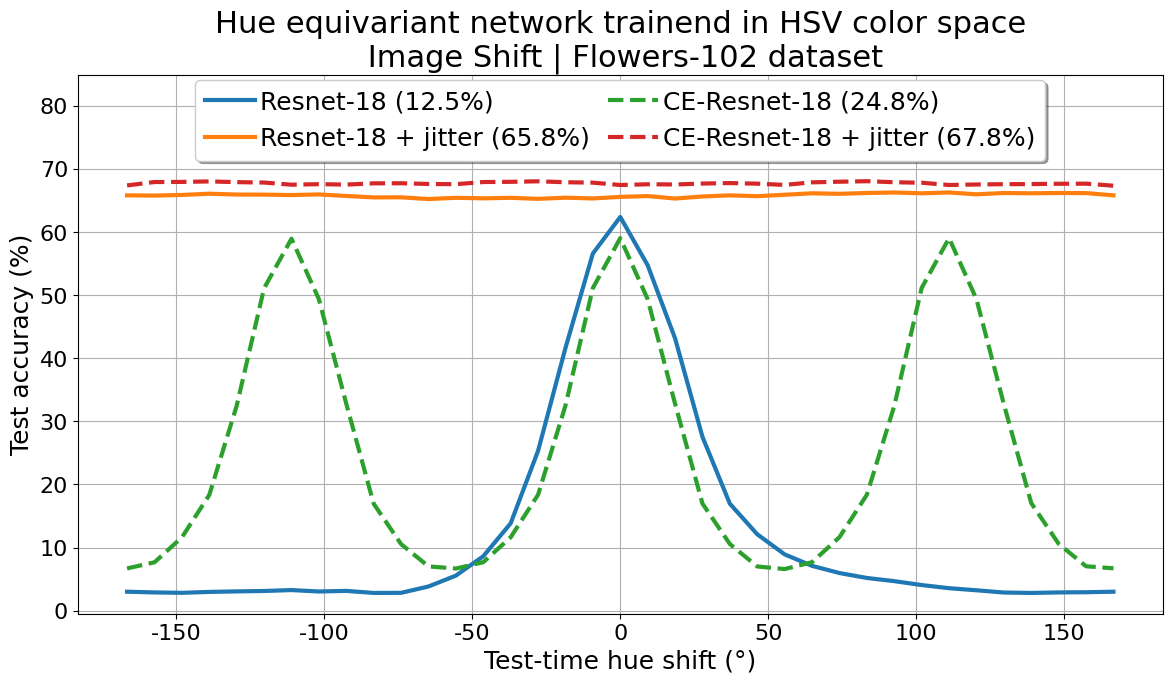
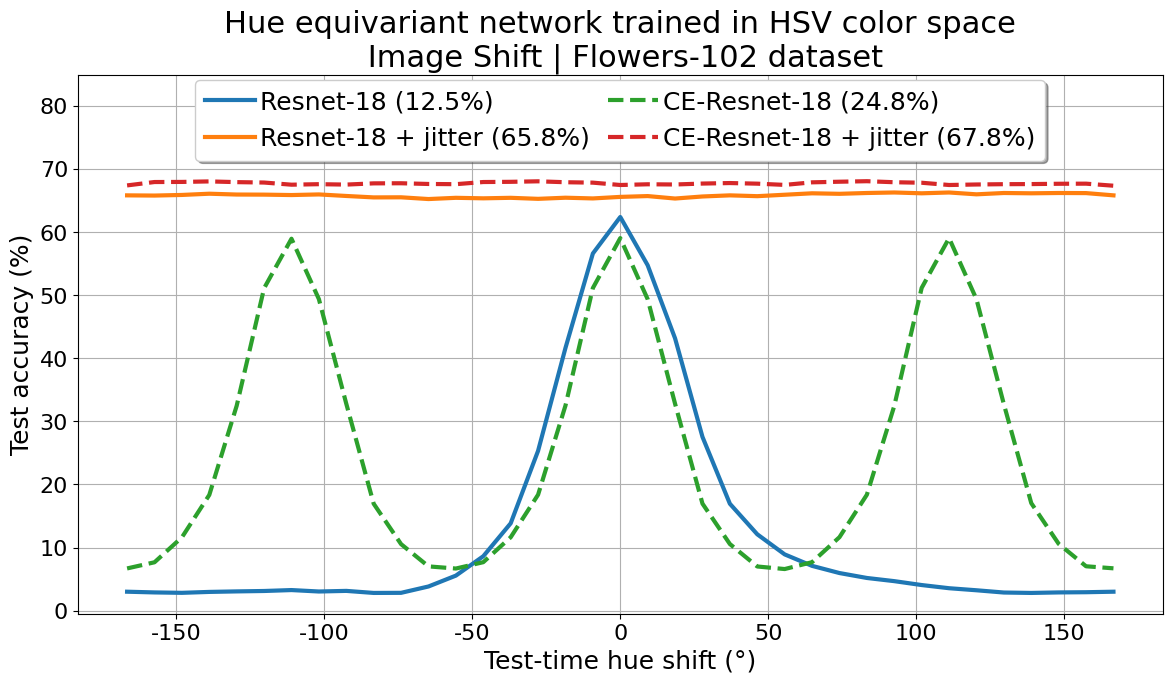
fix trainend hue shift plots

Changed region(s): [[0.1843, 0.0, 0.8908, 0.0615]]

diff --git a/CEConv/plot_fig9_hue.py b/CEConv/plot_fig9_hue.py
@@ -13,14 +13,14 @@ baseline_jitter = np.load("output/test_results/hue_shift_kernel/hue_baseline_jit
 hue_eq = np.load("output/test_results/hue_shift_kernel/hue_flowers102-resnet18_3-true-jitter_0_0-split_1_0-seed_0-hsv_space-hue_shift-sat_jitter_1_1-val_jitter_1_1-no_norm.npz")["acc"]
 hue_eq_jitter = np.load("output/test_results/hue_shift_kernel/hue_flowers102-resnet18_3-true-jitter_0_5-split_1_0-seed_0-hsv_space-hue_shift-sat_jitter_1_1-val_jitter_1_1-no_norm.npz")["acc"]
 
-fig, ax = plt.subplots(figsize=(12, 6))
-plt.plot(x, baseline * 100, label="Resnet-18 (Baseline)")
-plt.plot(x, baseline_jitter * 100, label="Resnet-18 + jitter (Baseline)")
-plt.plot(x, hue_eq * 100, label="CE-Resnet-18", ls="--")
-plt.plot(x, hue_eq_jitter * 100, label="CE-Resnet-18 + jitter", ls="--")
+fig, ax = plt.subplots(figsize=(14, 7))
+plt.plot(x, baseline * 100, label=f"Resnet-18 ({np.mean(baseline)*100:.1f}%)", linewidth=3)
+plt.plot(x, baseline_jitter * 100, label=f"Resnet-18 + jitter ({np.mean(baseline_jitter)*100:.1f}%)", linewidth=3)
+plt.plot(x, hue_eq * 100, label=f"CE-Resnet-18 ({np.mean(hue_eq)*100:.1f}%)", ls="--", linewidth=3)
+plt.plot(x, hue_eq_jitter * 100, label=f"CE-Resnet-18 + jitter ({np.mean(hue_eq_jitter)*100:.1f}%)", ls="--", linewidth=3)
 
-# plt.title("Hue equivariant network trainend in HSV color space\n Image Shift | Flowers-102 dataset", fontsize=22)
-plt.title("Hue equivariant network trainend in HSV color space\n Kernel Shift | Flowers-102 dataset", fontsize=22)
+plt.title("Hue equivariant network trained in HSV color space\n Image Shift | Flowers-102 dataset", fontsize=22)
+# plt.title("Hue equivariant network trained in HSV color space\n Kernel Shift | Flowers-102 dataset", fontsize=22)
 plt.ylabel("Test accuracy (%)", fontsize=18)
 plt.yticks(fontsize=16,)
 plt.xlabel("Test-time hue shift (°)", fontsize=18)
@@ -29,6 +29,6 @@ plt.legend(fontsize=12, loc='upper center', bbox_to_anchor=(0.5, 0.99),
         borderaxespad=0., ncol=3, fancybox=True, shadow=True,
         columnspacing=0.7, handletextpad=0.2)
 plt.grid(axis="both")
-plt.ylim(0, 100)
-# plt.savefig("output/test_results/hue_shift_img/hue_shift_img.jpg")
-plt.savefig("output/test_results/hue_shift_kernel/hue_shift_kernel.jpg")
+plt.ylim(-0.5, 85)
+# plt.savefig("output/test_results/hue_shift_img/hue_shift_img.png")
+plt.savefig("output/test_results/hue_shift_kernel/hue_shift_kernel.png")

diff --git a/CEConv/utils.py b/CEConv/utils.py
@@ -459,7 +459,7 @@ def hue_kernel(path="/home/arco/Downloads/Master AI/CEConvDL2/output/classificat
     plt.plot(x, hue_eq * 100, label=f"CE-Resnet-18 ({np.mean(hue_eq)*100:.1f}%)", ls="--", linewidth=3)
     plt.plot(x, hue_eq_jitter * 100, label=f"CE-Resnet-18 + jitter ({np.mean(hue_eq_jitter)*100:.1f}%)", ls="--", linewidth=3)
 
-    plt.title("Hue equivariant network trainend in HSV color space\n Kernel Shift | Flowers-102 dataset", fontsize=22)
+    plt.title("Hue equivariant network trained in HSV color space\n Kernel Shift | Flowers-102 dataset", fontsize=22)
     # plt.title("Hue equivariant network in HSV\n Kernel Shift - Flowers-102 dataset", fontsize=22)
     plt.ylabel("Test accuracy (%)", fontsize=18)
     plt.yticks(fontsize=16,)
@@ -486,7 +486,7 @@ def hue_image(path="/home/arco/Downloads/Master AI/CEConvDL2/output/classificati
     plt.plot(x, hue_eq * 100, label=f"CE-Resnet-18 ({np.mean(hue_eq)*100:.1f}%)", ls="--", linewidth=3)
     plt.plot(x, hue_eq_jitter * 100, label=f"CE-Resnet-18 + jitter ({np.mean(hue_eq_jitter)*100:.1f}%)", ls="--", linewidth=3)
 
-    plt.title("Hue equivariant network trainend in HSV color space\n Image Shift | Flowers-102 dataset", fontsize=22)
+    plt.title("Hue equivariant network trained in HSV color space\n Image Shift | Flowers-102 dataset", fontsize=22)
     # plt.title("Hue equivariant network in HSV\n Kernel Shift - Flowers-102 dataset", fontsize=22)
     plt.ylabel("Test accuracy (%)", fontsize=18)
     plt.yticks(fontsize=16,)
